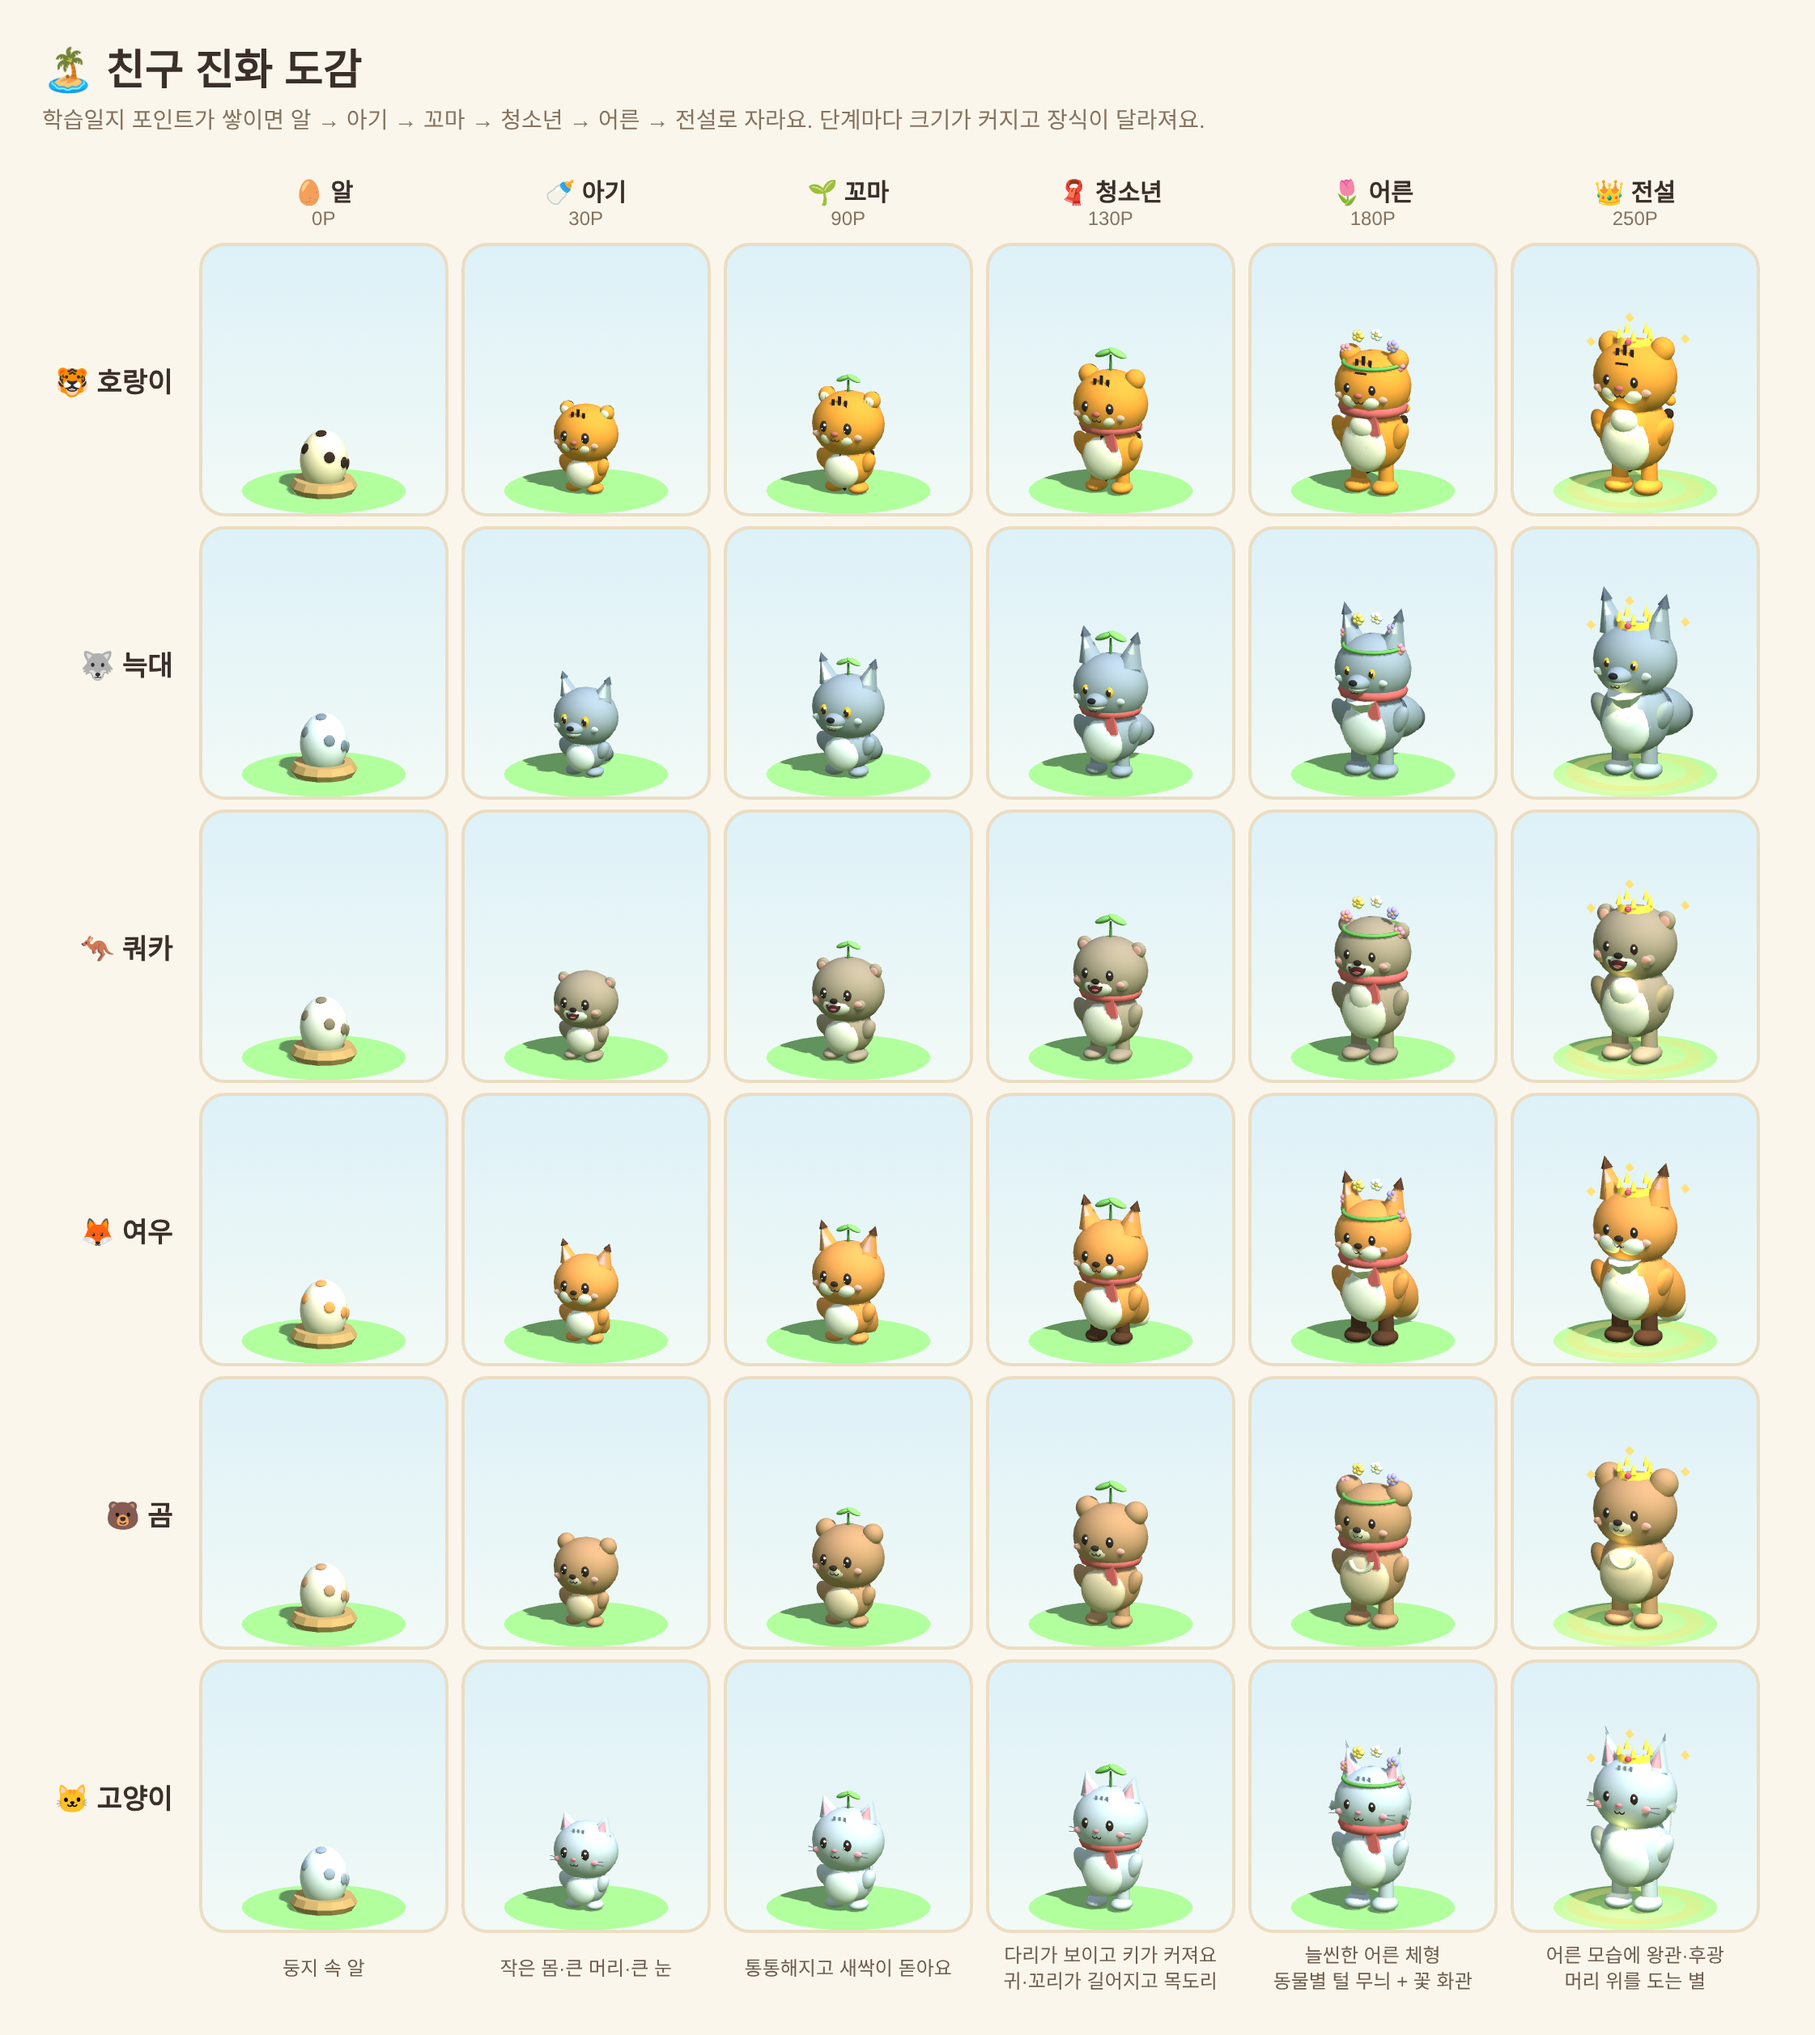
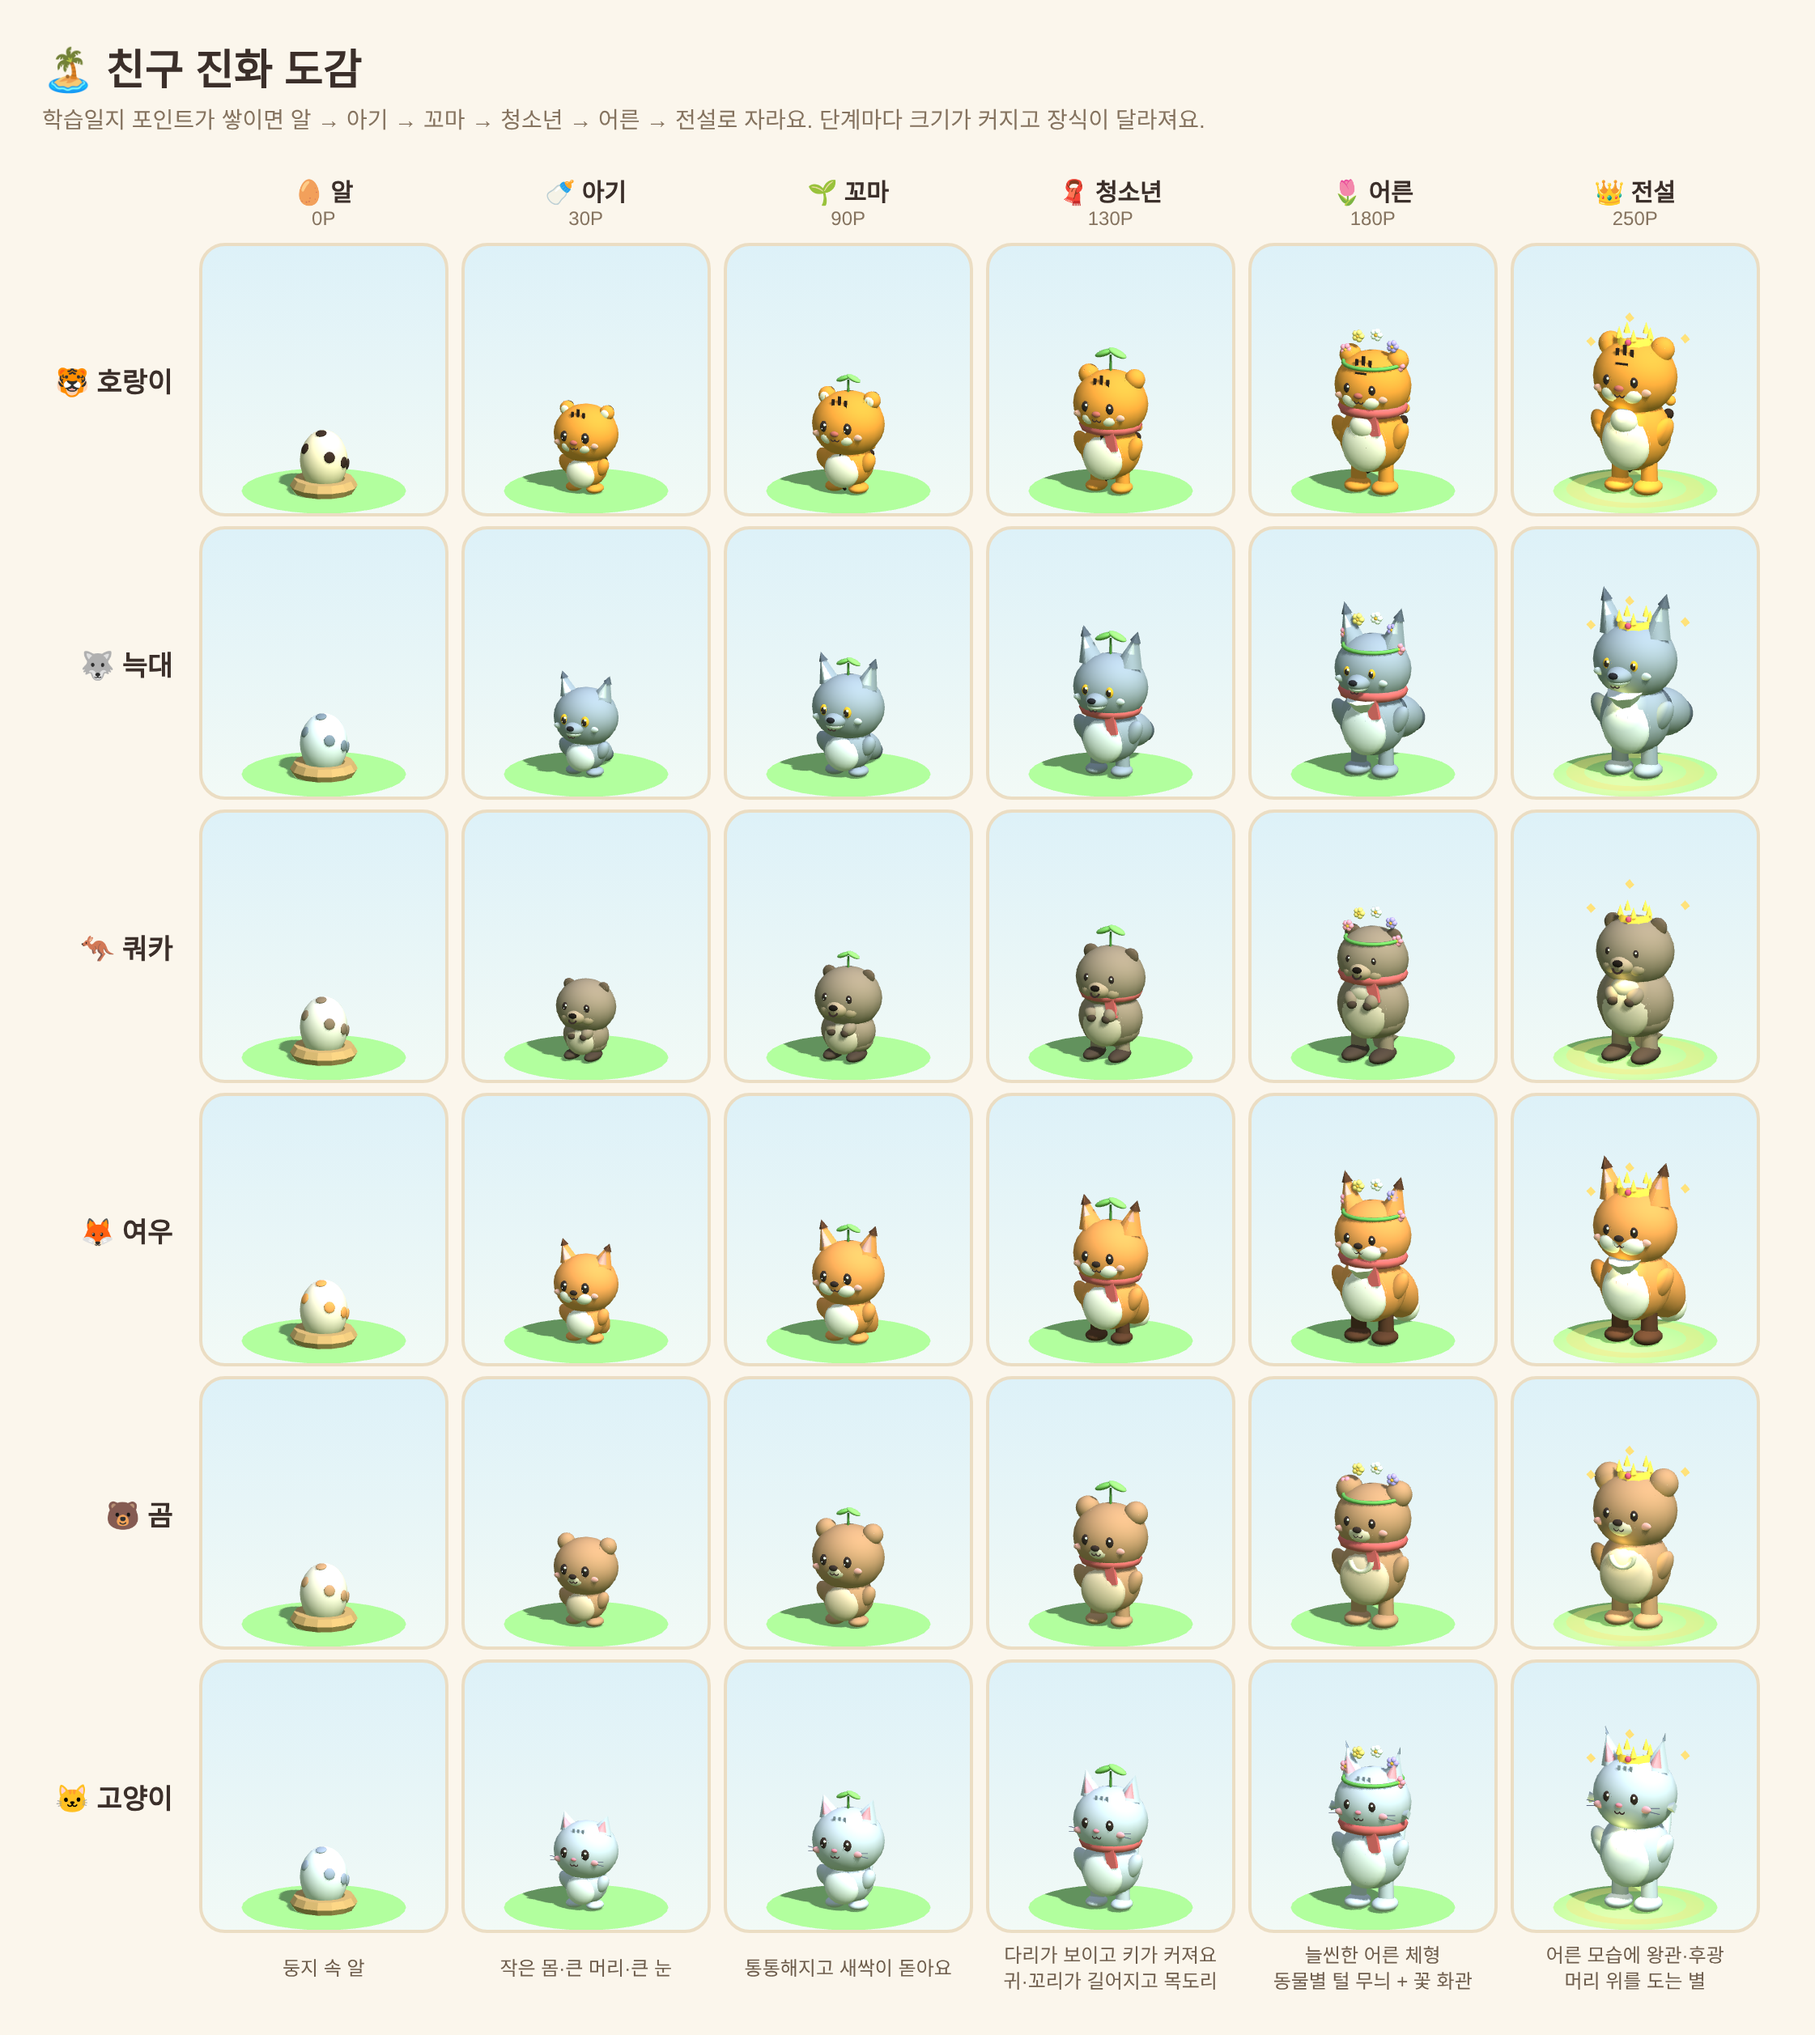
쿼카 다시 만들기: 실제 쿼카처럼
- 회갈색 털, 목 없이 머리가 몸에 붙은 서양배 체형
- 짧고 동그란 주둥이 + 통통한 볼, 입을 벌리지 않고 입꼬리만 올라간 미소
- 테두리가 짙은 작고 동그란 귀, 가슴 앞에 모은 작은 앞발
- 길고 짙은 뒷발, 바닥에 닿는 짧고 굵은 꼬리

Claude-Session: https://claude.ai/code/session_01XAbtJ4oXmSkLcZTaopT91E

diff --git a/index.html b/index.html
@@ -3944,7 +3944,7 @@
       const SPC = {
         tiger:  { body: 0xf29a3a, belly: 0xfff3e0, accent: 0xf6b3a0, nose: 0xc96a5e, egg: 0xffe7c4, spot: 0x3a2a22, stripe: 0x33251e, muzzle: 0xfff3e0 },
         wolf:   { body: 0x9aa5b1, belly: 0xeef1f4, accent: 0xd3d9e0, nose: 0x2a2a30, egg: 0xe7ecf2, spot: 0x7a8794, tip: 0x5a6470, muzzle: 0xeef1f4, iris: 0xf2b632 },
-        quokka: { body: 0xa8957e, belly: 0xefe6d8, accent: 0xe9a39c, nose: 0x2e2622, egg: 0xf1ebe1, spot: 0x8c7a64, muzzle: 0xf3ece2 },
+        quokka: { body: 0x9a8670, belly: 0xd8c6ad, accent: 0xd9a090, nose: 0x231c18, egg: 0xefe6d8, spot: 0x8a735c, muzzle: 0xb79d80, paw: 0x4f4035, rim: 0x6a5846 },
         cat:    { body: 0xc9d0dd, belly: 0xf4f6fa, accent: 0xf2a7b5, nose: 0xf08aa0, egg: 0xeef1f7, spot: 0x9aa4b9, stripe: 0x8f99ae },
         bear:   { body: 0xc1916a, belly: 0xe8cdae, accent: 0xf0a8a0, nose: 0x3a2e2a, egg: 0xf6e7d6, spot: 0xc1916a, muzzle: 0xf1dec6 },
         fox:    { body: 0xf09b52, belly: 0xfff7ec, accent: 0xf6b3a8, nose: 0x3a2e2a, egg: 0xffebd8, spot: 0xf09b52, tip: 0x5a3a28 }
@@ -3981,16 +3981,19 @@
         const eyeS = [0, 1.15, 1.08, 1.0, .9, .9][stage];
         const ry = .46 * tSY, cy = .09 + legH + ry;              // 몸통 중심 높이
         const adult = stage >= 4;
-        const torso = ball(.5, S.body, 0, cy, 0, tSX, .92 * tSY, .95 * tSX); body.add(torso);
+        const torso = ball(.5, S.body, 0, cy, 0, tSX * (species === 'quokka' ? 1.08 : 1), .92 * tSY, .95 * tSX); body.add(torso);
+        if (species === 'quokka') body.add(ball(.42, S.body, 0, cy - ry * .45, -.02, tSX * 1.15, .6 * tSY, tSX));
         body.add(ball(.36, S.belly, 0, cy - .05, .3 * tSX, tSX * (species === 'bear' && stage >= 3 ? 1.1 : 1), tSY, .5));
-        const head = new T.Group(); head.position.y = cy + ry + .31 * headS; head.scale.setScalar(headS); body.add(head); parts.head = head;
+        const qk = species === 'quokka';
+        const hS = headS * (qk ? .93 : 1);
+        const head = new T.Group(); head.position.y = cy + ry + (qk ? .2 : .31) * hS; head.scale.setScalar(hS); body.add(head); parts.head = head;
         head.add(ball(.62, S.body, 0, 0, 0, 1.05, .95, 1));
         // 눈 (어릴수록 커요)
         const eyeM = sm(0x3a2e2a), hiM = sm(0xffffff);
         const eyes = [];
         [-.22, .22].forEach(function (x) {
-          const e = new T.Group(); e.position.set(x, .06, .55);
-          const eb = new T.Group(); eb.scale.setScalar(eyeS); e.add(eb);
+          const e = new T.Group(); e.position.set(qk ? x * 1.1 : x, qk ? .1 : .06, qk ? .53 : .55);
+          const eb = new T.Group(); eb.scale.setScalar(eyeS * (qk ? .85 : 1)); e.add(eb);
           eb.add(mesh(new T.SphereGeometry(.078, 12, 10), species === 'wolf' ? sm(S.iris) : eyeM, 0, 0, 0)); eb.children[0].scale.set(1, 1.25, .6);
           if (species === 'wolf') { const pu = mesh(new T.SphereGeometry(.05, 10, 8), eyeM, 0, -.005, .03); pu.scale.set(1, 1.25, .6); eb.add(pu); }
           eb.add(mesh(new T.SphereGeometry(.026, 6, 5), hiM, .025, .04, .045));
@@ -4001,10 +4004,14 @@
         const brows = new T.Group();
         [-.22, .22].forEach(function (x) { const b = mesh(new T.BoxGeometry(.14, .025, .02), eyeM, x, .2, .56); b.rotation.z = x < 0 ? .35 : -.35; brows.add(b); });
         brows.visible = false; head.add(brows); parts.brows = brows;
-        [-.38, .38].forEach(function (x) { head.add(ball(.1, S.accent, x, -.1, .48, 1, .6, .4)); });
+        if (!qk) [-.38, .38].forEach(function (x) { head.add(ball(.1, S.accent, x, -.1, .48, 1, .6, .4)); });
         if (species === 'bear') head.add(ball(.2 * (adult ? 1.12 : 1), S.muzzle, 0, -.12, .5, 1, .75, .6));
         if (species === 'fox' || species === 'tiger') { const m = adult ? 1.12 : 1, r = species === 'tiger' ? .17 : .2; head.add(ball(r * m, S.belly, -.15, -.14, .48, 1, .78, .6)); head.add(ball(r * m, S.belly, .15, -.14, .48, 1, .78, .6)); }
-        if (species === 'quokka') { head.add(ball(.22, S.muzzle, 0, -.15, .49, 1.25, .8, .62)); [-1, 1].forEach(function (sd) { head.add(ball(.15, S.body, sd * .36, -.12, .4, 1, .85, .7)); }); }
+        if (qk) {
+          // 쿼카: 짧고 동그란 주둥이 + 통통한 볼
+          head.add(ball(.21, S.muzzle, 0, -.1, .5, 1.05, .82, 1.05));
+          [-1, 1].forEach(function (sd) { head.add(ball(.17, S.muzzle, sd * .21, -.15, .43, 1, .85, .8)); });
+        }
         const mouthM = new T.MeshBasicMaterial({ color: 0x3a2e2a });
         if (species === 'wolf') {
           // 늑대: 앞으로 나온 주둥이
@@ -4014,14 +4021,14 @@
           head.add(ball(.065, S.nose, 0, -.05, .55 + .23 * sn, 1.2, .8, .8));
           [-.035, .035].forEach(function (x) { const m = new T.Mesh(new T.TorusGeometry(.035, .01, 4, 10, Math.PI), mouthM); m.position.set(x, -.22, .55 + .17 * sn); m.rotation.z = Math.PI; head.add(m); });
         } else {
-          const nz = species === 'bear' ? .66 : (species === 'quokka' ? .64 : .61);
-          head.add(ball(species === 'cat' ? .045 : .062, S.nose, 0, -.04, nz, 1.2, .8, .8));
+          const nz = species === 'bear' ? .66 : (species === 'quokka' ? .71 : .61);
+          head.add(ball(species === 'cat' ? .045 : (species === 'quokka' ? .07 : .062), S.nose, 0, species === 'quokka' ? -.04 : -.04, nz, 1.3, .85, .8));
           if (species === 'quokka') {
-            // 쿼카: 활짝 웃는 입
-            const w = adult ? .14 : .12;
-            const smile = new T.Mesh(new T.TorusGeometry(w, .022, 5, 16, Math.PI), mouthM); smile.position.set(0, -.11, .655); smile.rotation.z = Math.PI; smile.rotation.x = -.25; head.add(smile);
-            const mouthIn = ball(w * .8, 0x5a2a2a, 0, -.17, .62, 1.2, .5, .3); head.add(mouthIn);
-            head.add(ball(.05, 0xe86a7a, 0, -.2, .635, 1.4, .6, .4));
+            // 쿼카 미소: 입꼬리가 올라간 작은 입 (입을 벌리지 않아요)
+            const smile = new T.Mesh(new T.TorusGeometry(.085, .019, 5, 16, Math.PI * .9), mouthM);
+            smile.position.set(0, -.115, .705); smile.rotation.z = Math.PI + Math.PI * .05; smile.rotation.x = -.35; head.add(smile);
+            [-1, 1].forEach(function (sd) { const c = new T.Mesh(new T.TorusGeometry(.025, .011, 4, 8, Math.PI * .6), mouthM); c.position.set(sd * .078, -.105, .675); c.rotation.z = sd > 0 ? Math.PI * .1 : Math.PI * .3; head.add(c); });
+            head.add(mesh(new T.BoxGeometry(.012, .05, .01), mouthM, 0, -.13, .7, false));
           } else {
             [-.04, .04].forEach(function (x) { const m = new T.Mesh(new T.TorusGeometry(.04, .011, 4, 10, Math.PI), mouthM); m.position.set(x, -.14, species === 'bear' ? .62 : .59); m.rotation.z = Math.PI; head.add(m); });
           }
@@ -4062,8 +4069,14 @@
             head.add(ball(er * .75, S.stripe, s * .43, .48, -.14, 1, 1, .4));
           });
         } else if (species === 'quokka') {
-          const er = [0, .12, .13, .14, .15, .15][stage];
-          [-1, 1].forEach(function (s) { head.add(ball(er, S.body, s * .5, .4, -.04, 1, 1, .6)); head.add(ball(er * .6, S.accent, s * .5, .4, .03, 1, 1, .3)); });
+          const er = [0, .13, .14, .15, .16, .16][stage];
+          [-1, 1].forEach(function (sd) {
+            const ear = new T.Group(); ear.position.set(sd * .4, .44, -.02); ear.rotation.z = -sd * .35;
+            ear.add(ball(er, S.rim, 0, 0, 0, 1, 1, .55));
+            ear.add(ball(er * .78, S.body, 0, 0, .02, 1, 1, .5));
+            ear.add(ball(er * .5, S.accent, 0, 0, .05, 1, 1, .3));
+            head.add(ear);
+          });
         } else {
           const er = [0, .18, .19, .21, .23, .23][stage];
           [-1, 1].forEach(function (s) { head.add(ball(er, S.body, s * .45, .45, -.05)); head.add(ball(er * .55, S.muzzle, s * .45, .45, .08, 1, 1, .4)); });
@@ -4072,11 +4085,18 @@
         const armLen = 1.5 + (stage >= 3 ? .25 : 0) + (adult ? .15 : 0);
         const armL = ball(.13, S.body, -.45 * tSX, cy + .07, .1, 1, armLen, 1), armR = ball(.13, S.body, .45 * tSX, cy + .07, .1, 1, armLen, 1);
         armL.rotation.z = .5; armR.rotation.z = -.5; body.add(armL); body.add(armR);
+        if (qk) {
+          [[armL, -1], [armR, 1]].forEach(function (q) {
+            const a = q[0], sd = q[1];
+            a.position.set(sd * .17, cy + ry * .3, .38 * tSX); a.rotation.set(-1.0, 0, -sd * .35); a.scale.set(.9, 1.1, .9); a.userData.rx = -1.0;
+            a.add(ball(.07, S.paw, 0, -.12, 0, 1.2, .8, 1));
+          });
+        }
         // 다리·발 (청소년부터 다리가 보여요)
         const sockC = species === 'fox' && stage >= 3 ? S.tip : S.body;
         const mkFoot = function (x) {
           const f = new T.Group(); f.position.set(x, 0, .06);
-          f.add(ball(.17 * (adult ? 1.12 : 1), sockC, 0, .1, species === 'quokka' ? .05 : 0, 1, .6, species === 'quokka' ? 1.7 : 1.3));
+          f.add(ball(.17 * (adult ? 1.12 : 1), qk ? S.paw : sockC, 0, .1, qk ? .08 : 0, qk ? .85 : 1, .55, qk ? 1.9 : 1.3));
           if (legH > 0) f.add(mesh(new T.CylinderGeometry(.11 * tSX, .12, legH + .14, 10), sm(sockC), 0, .12 + (legH + .14) / 2, -.04));
           g.add(f); return f;
         };
@@ -4092,13 +4112,13 @@
           const ruff = mesh(new T.ConeGeometry(.26, .42, 8), sm(S.belly), 0, cy + ry * .45, .3 * tSX); ruff.rotation.x = Math.PI + .25; body.add(ruff);
           body.add(ball(.42, S.tip, 0, cy + .12, -.2, 1.05 * tSX, .7, .8));
         }
-        if (adult && species === 'quokka') body.add(ball(.22, S.belly, 0, cy + ry * .35, .36 * tSX, 1, 1.1, .6));
+        if (adult && species === 'quokka') body.add(ball(.2, S.belly, 0, cy + ry * .45, .34 * tSX, 1.1, .8, .6));
         if (adult && species === 'cat') { [-.25, 0, .25].forEach(function (z) { const st = mesh(new T.TorusGeometry(.42 * tSX, .03, 4, 16, Math.PI * .7), sm(S.stripe), 0, cy + z * .5 + .05, -.05); st.rotation.y = Math.PI / 2; st.rotation.z = Math.PI * .65; body.add(st); }); }
         if (adult && species === 'bear') { const moon = mesh(new T.TorusGeometry(.17, .045, 6, 14, Math.PI), sm(0xf6ead6), 0, cy + ry * .5, .44 * tSX); moon.rotation.z = Math.PI; body.add(moon); }
         if (adult && species === 'fox') { const ruff = mesh(new T.ConeGeometry(.24, .4, 8), sm(S.belly), 0, cy + ry * .45, .3 * tSX); ruff.rotation.x = Math.PI + .25; body.add(ruff); }
         // 꼬리 (자랄수록 커져요)
         const tg = [0, .85, .95, 1.1, 1.25, 1.3][stage];
-        if (species === 'quokka') { const qt = mesh(new T.ConeGeometry(.08, .45 * tg, 6), sm(S.body), 0, cy - .3, -.55 * tSX); qt.rotation.x = -2.1; body.add(qt); }
+        if (qk) { const qt = mesh(new T.ConeGeometry(.12 * tg, .5 * tg, 8), sm(S.body), 0, .14, -.62 * tSX); qt.rotation.x = -1.75; body.add(qt); }
         if (species === 'tiger') {
           // 고리 무늬가 있는 긴 꼬리
           const k = tg * 1.1, y0 = cy - .15;
@@ -4656,8 +4676,8 @@
         g.rotation.y = P.dir;
         parts.footL.position.z = .06 + (walking ? Math.sin(t * sp) * .16 : 0);
         parts.footR.position.z = .06 - (walking ? Math.sin(t * sp) * .16 : 0);
-        parts.armL.rotation.x = walking ? Math.sin(t * sp) * .6 : 0;
-        parts.armR.rotation.x = walking ? -Math.sin(t * sp) * .6 : 0;
+        parts.armL.rotation.x = (parts.armL.userData.rx || 0) + (walking ? Math.sin(t * sp) * (parts.armL.userData.rx ? .2 : .6) : 0);
+        parts.armR.rotation.x = (parts.armR.userData.rx || 0) + (walking ? -Math.sin(t * sp) * (parts.armR.userData.rx ? .2 : .6) : 0);
         const breathe = 1 + Math.sin(t * 2.4) * .02;
         parts.body.scale.set(1, P.state === 'sleep' ? 1 + Math.sin(t * 1.6) * .03 : breathe, 1);
         parts.body.rotation.x = P.state === 'eat' ? .25 + Math.sin(t * 12) * .1 : (walking ? .06 : 0);
